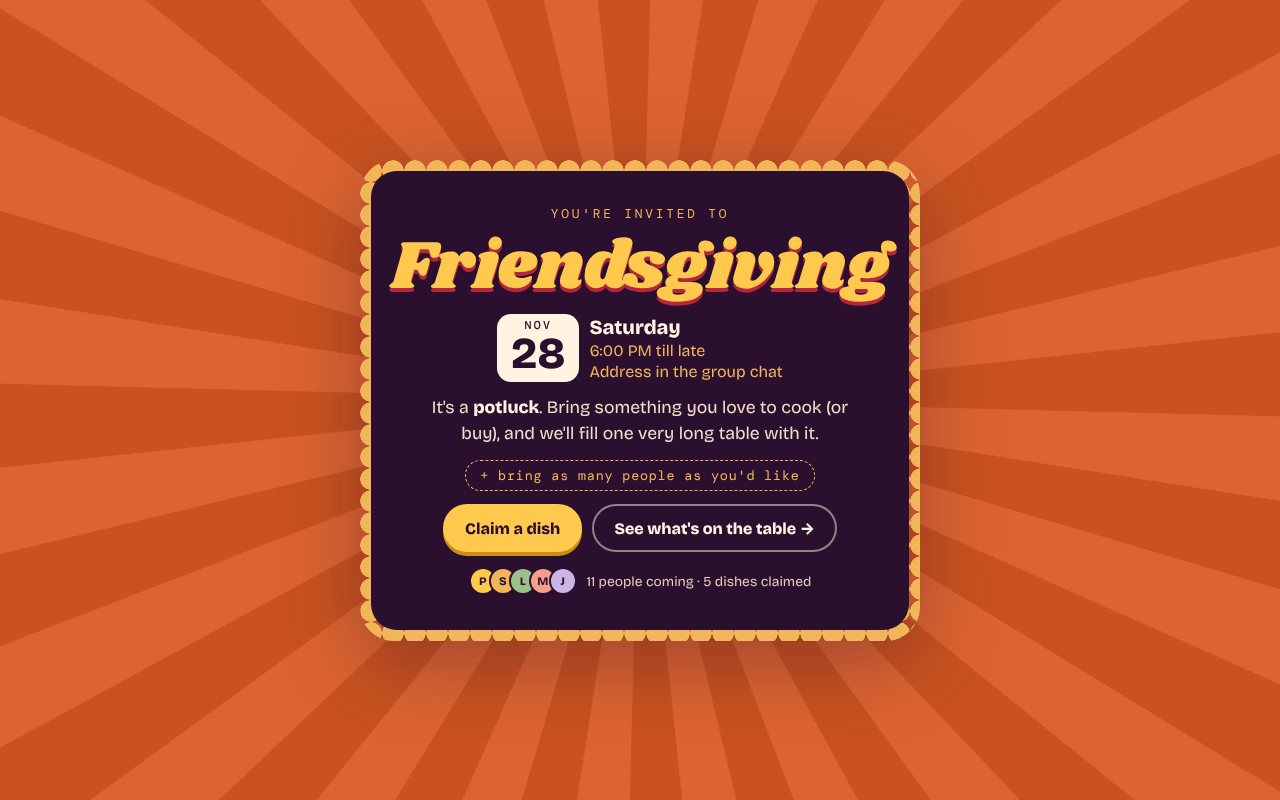
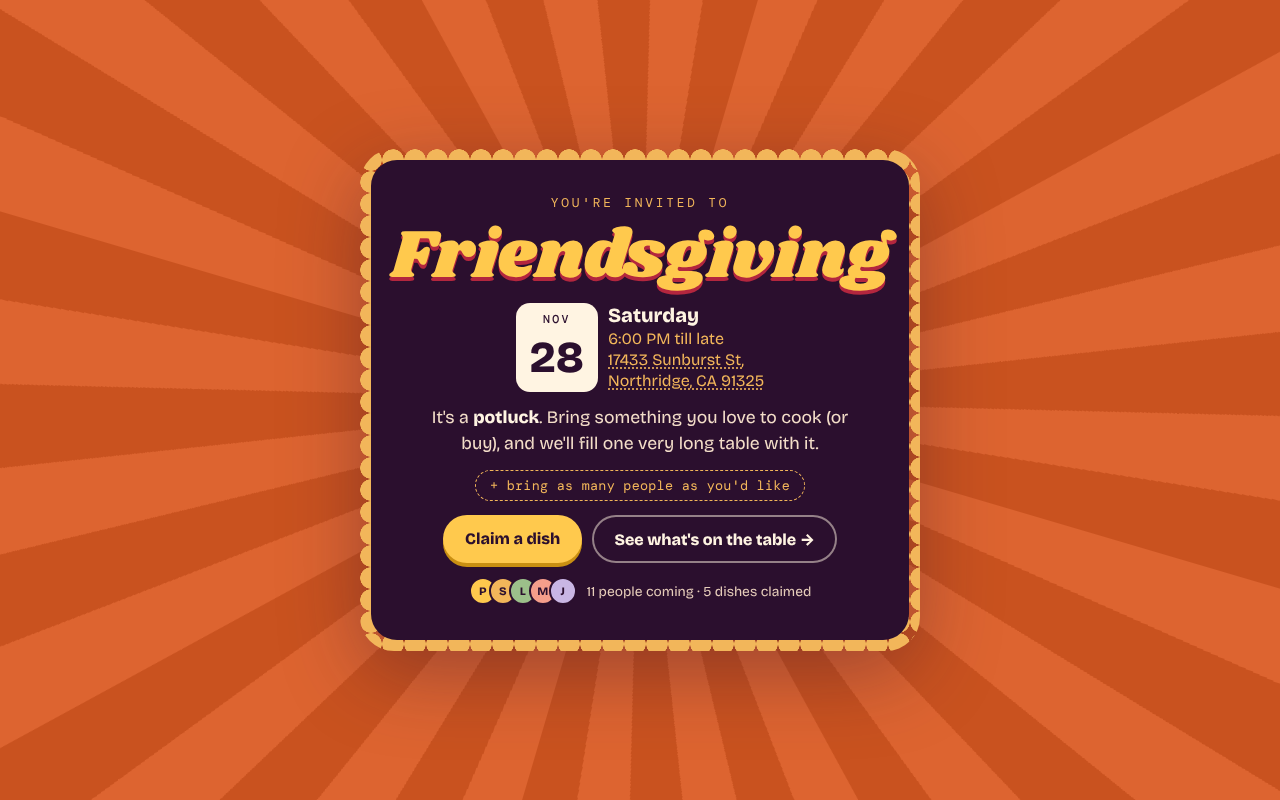
Add the party address with a Google Maps link
Claude-Session: https://claude.ai/code/session_01LT1UqeDuWXYjuLRZr91uJo

Changed region(s): [[0.2812, 0.1875, 0.7188, 0.8125]]

diff --git a/index.html b/index.html
@@ -124,7 +124,9 @@ h1.title {
 .date .day small { font-family: var(--mono); font-weight: 500; font-size: .72rem; letter-spacing: .2em; }
 .date .rest { display: flex; flex-direction: column; justify-content: center; text-align: left; gap: 2px; }
 .date .rest span { font-size: clamp(1rem, 2.6vh, 1.25rem); }
-.date .rest em { font-style: normal; font-weight: 400; color: var(--crust); font-size: clamp(.86rem, 2.1vh, 1rem); }
+.date .rest em, .date .rest .place { font-style: normal; font-weight: 400; color: var(--crust); font-size: clamp(.86rem, 2.1vh, 1rem); }
+.date .rest .place { text-decoration: underline; text-decoration-style: dotted; text-underline-offset: 3px; line-height: 1.3; }
+.date .rest .place:hover { color: var(--gold); }
 
 .pitch {
   margin: 0; max-width: 40ch;
@@ -369,7 +371,7 @@ label.f > span small { font-weight: 400; color: var(--ink-muted); }
         <div class="rest">
           <span id="c-weekday">Saturday</span>
           <em id="c-time">6:00 PM till late</em>
-          <em id="c-place">Address in the group chat</em>
+          <a id="c-place" class="place" href="https://www.google.com/maps/search/?api=1&amp;query=17433%20Sunburst%20St%2C%20Northridge%2C%20CA%2091325" target="_blank" rel="noopener">17433 Sunburst St,<br>Northridge, CA 91325</a>
         </div>
       </div>
 
@@ -470,7 +472,7 @@ const CONFIG = {
   apiUrl: "",                          // paste your Apps Script web app URL (ends in /exec)
   weekday: "Saturday",
   time: "6:00 PM till late",
-  place: "Address in the group chat",
+  place: "17433 Sunburst St, Northridge, CA 91325",
   // Most dishes allowed per course. When a course hits its limit it closes,
   // and anyone trying to add one gets pointed to courses that still need food.
   // Use null for no limit.
@@ -925,7 +927,11 @@ function showNotice(t, ms = 5000) {
 /* ---------------- Boot ---------------- */
 $("c-weekday").textContent = CONFIG.weekday;
 $("c-time").textContent = CONFIG.time;
-$("c-place").textContent = CONFIG.place;
+{ // street on one line, city/state/zip on the next
+  const [street, ...rest] = CONFIG.place.split(", ");
+  $("c-place").replaceChildren(street + (rest.length ? "," : ""), ...(rest.length ? [document.createElement("br"), rest.join(", ")] : []));
+}
+$("c-place").href = "https://www.google.com/maps/search/?api=1&query=" + encodeURIComponent(CONFIG.place);
 buildForm();
 render();
 route();

diff --git a/README.md b/README.md
@@ -50,7 +50,7 @@ const CONFIG = {
   apiUrl: "https://script.google.com/macros/s/XXXX/exec",  // from step 3
   weekday: "Saturday",
   time: "6:00 PM till late",          // change to your real time
-  place: "Address in the group chat", // or your actual address
+  place: "17433 Sunburst St, Northridge, CA 91325", // tapping it opens Google Maps
   limits: { main: null, side: 5, app: null, bread: null, dessert: null, drinks: 3 },  // most dishes per course; null = no limit
 };
 ```
